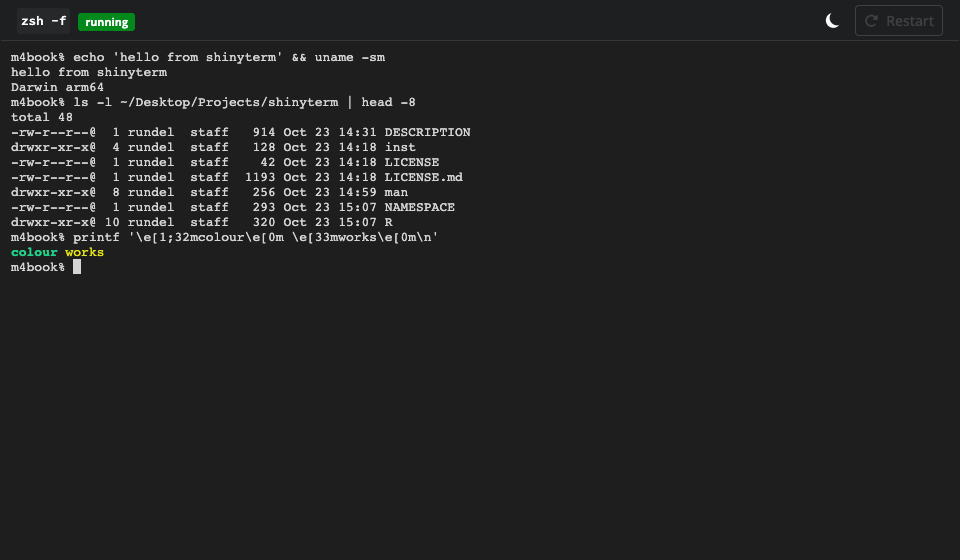
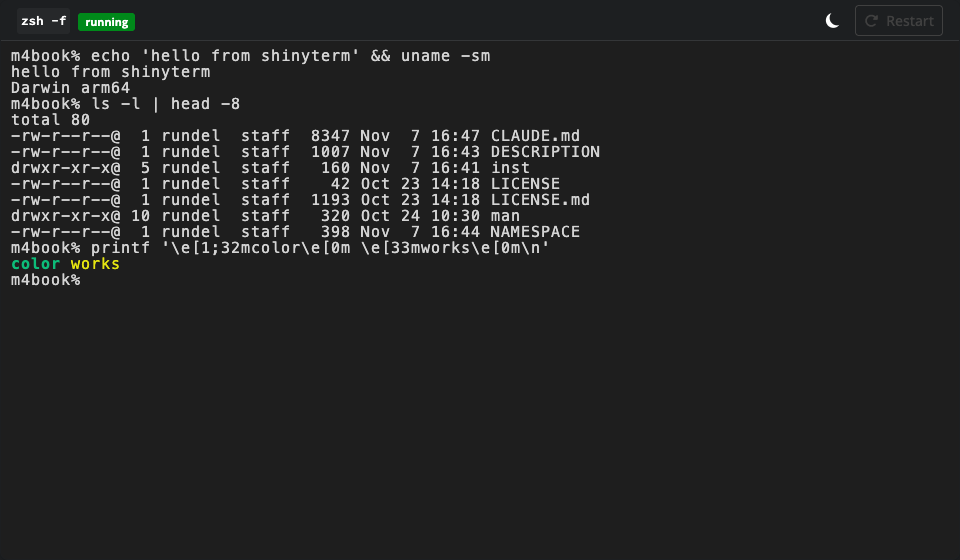
Add screenshot script and regenerate README figures with ghostterm

Changed region(s): [[0.0, 0.0911, 0.625, 0.5161]]

diff --git a/CLAUDE.md b/CLAUDE.md
@@ -16,7 +16,11 @@ Rscript -e 'devtools::test()'                     # run all tests
 Rscript -e 'devtools::test(filter = "server")'    # one test file (tests/testthat/test-server.R)
 Rscript -e 'devtools::check()'                    # full R CMD check
 Rscript -e 'devtools::load_all(); terminal_app()' # try the app interactively (your $SHELL)
+Rscript tools/screenshots.R                       # regenerate README figures in man/figures/
+Rscript tools/screenshots.R shell tabs            # only some (shell, tabs, claude, codex)
 ```
+
+`tools/screenshots.R` drives the apps in headless Chrome via shinytest2/chromote, so like the browser tests it uses the installed shinyterm and shinytabs; reinstall first. The `claude` and `codex` figures start real, logged-in agent sessions in a scratch project and send each a one-line prompt.
 
 Tests in `test-app.R` and `test-tabs-app.R` drive a real browser through `shinytest2`/`chromote` and are skipped on CRAN, on Windows, or when those packages are missing. They run the app in a child R process that uses the *installed* shinyterm and shinytabs for static resources, so reinstall both (`devtools::install()` in each) after changing anything under `inst/` or the shinytabs server before trusting a browser-test result. `test-server.R` uses `shiny::testServer()` and advances the `later` polling loop by hand with a local `tick()` helper (sleep, then `later::run_now()`), because output polling happens outside the reactive graph.
 
